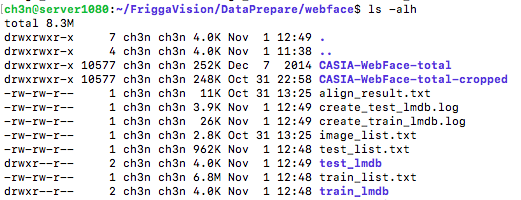
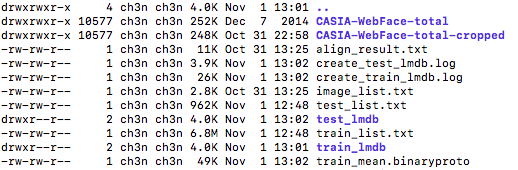
add image mean

diff --git a/DataPrepare/readme.md b/DataPrepare/readme.md
@@ -10,7 +10,7 @@ Scripts to prepare face data for CNN training.
 - 4) run face_wash.py to remove face profile with align_result.txt, and the results lay in washed_align_result.txt;
 - 5) run face_crop.py to generate cropped dataset;
 - 6) run dataset_div.py to split as Train/Test set;
-- 7) run create_lmdb.sh to create Caffe's meal;
+- 7) specific your caffe_dir in gen_lmdb_imgmean.sh and run it to create LMDBs;
 - 8) go to train at ../FaceIdentification;
 
 (all generated data will stay in 'webface' dir)
